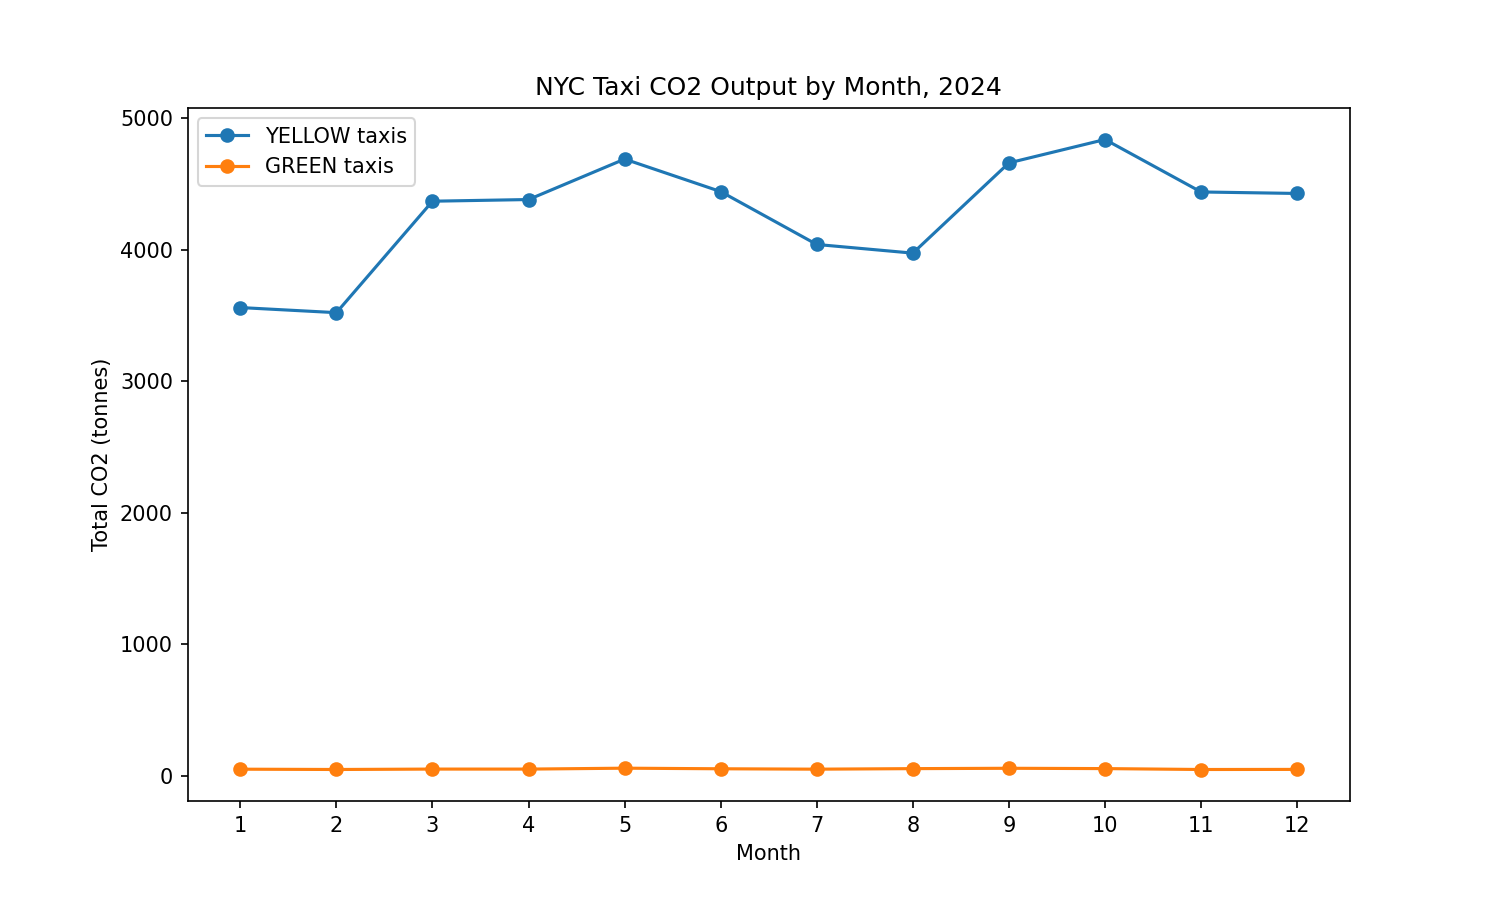
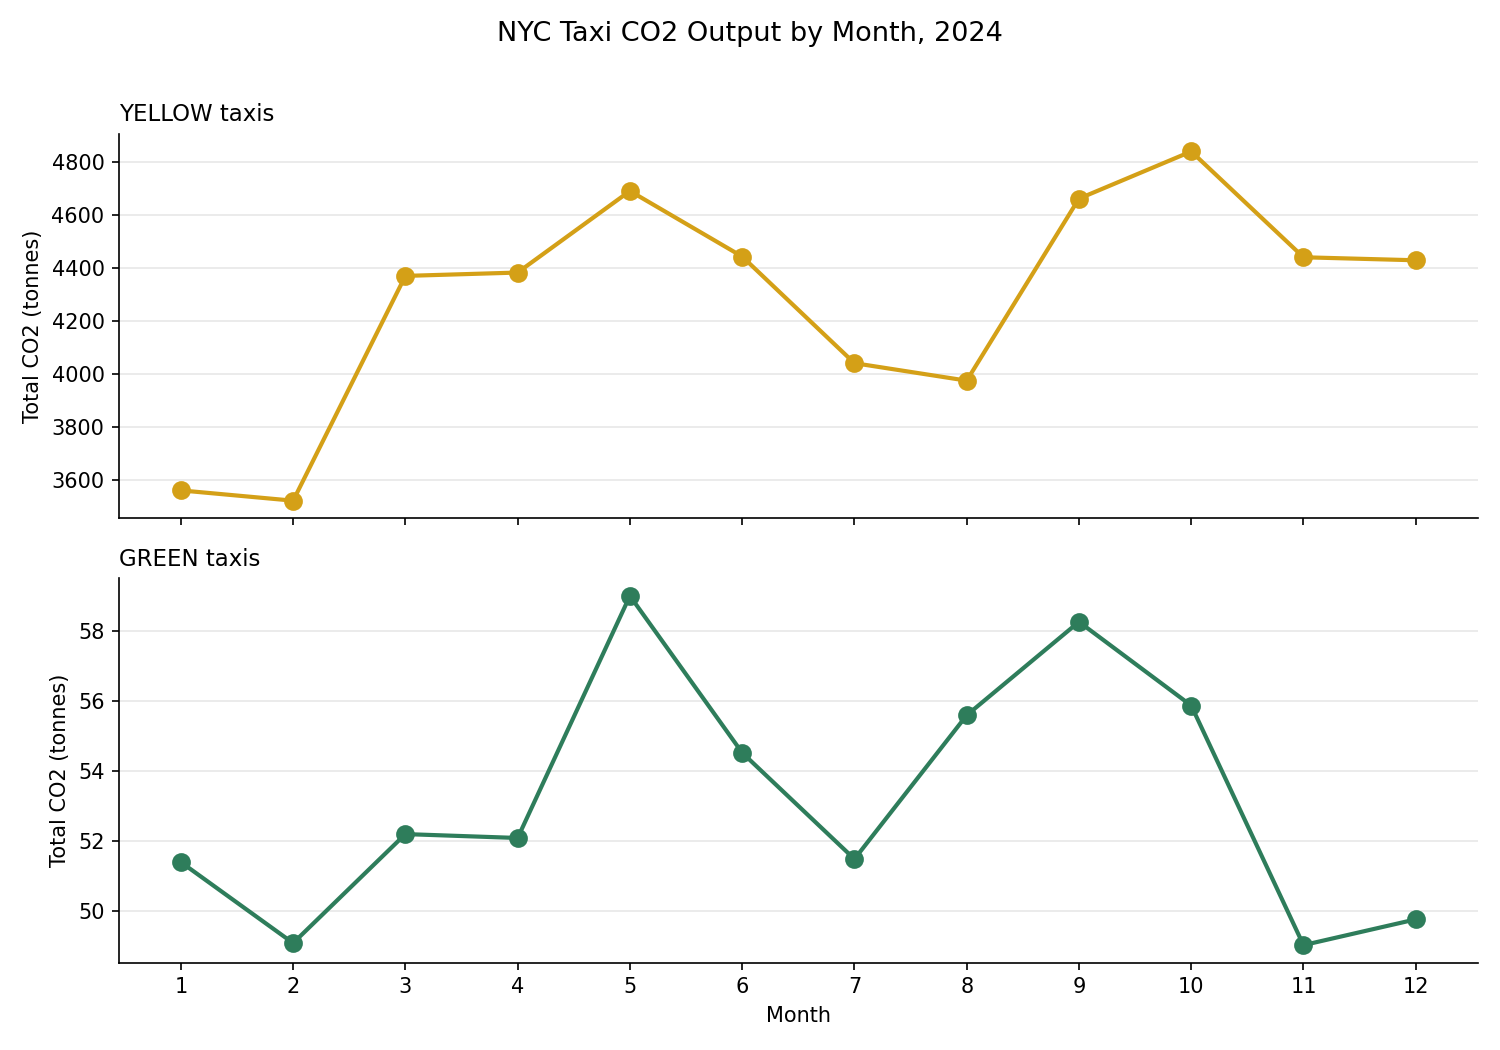
more updates

diff --git a/analysis.py b/analysis.py
@@ -63,22 +63,45 @@ def heaviest_lightest(con, label, table, column, description, names=None):
 def monthly_plot(con, filename="co2_by_month_2024.png"):
     """Plot monthly CO2 totals for both cab types and save it as a PNG.
 
-    Totals are divided by 1000 so the y-axis reads in tonnes rather than
+    Green output is only about 1.2% of yellow's, so the two series get their
+    own stacked panels rather than a shared axis, where green would flatten
+    against zero. Stacking them keeps each scale readable while sharing one
+    x-axis; a second y-axis on a single panel was avoided because the
+    distance between two differently-scaled lines carries no real meaning.
+
+    Totals are divided by 1000 so the axes read in tonnes rather than
     millions of kilograms.
     """
-    fig, ax = plt.subplots(figsize=(10, 6))
-    for label, table in TABLES.items():
+    colours = {"YELLOW": "#D4A017", "GREEN": "#2E7D5B"}
+
+    fig, axes = plt.subplots(
+        len(TABLES), 1, figsize=(10, 7), sharex=True
+    )
+
+    for ax, (label, table) in zip(axes, TABLES.items()):
         rows = con.execute(f"""
             SELECT month_of_year, SUM(trip_co2_kgs) AS total_co2
             FROM {table} GROUP BY month_of_year ORDER BY 1
         """).fetchall()
         months = [r[0] for r in rows]
         totals = [r[1] / 1000.0 for r in rows]   # kg -> tonnes
-        ax.plot(months, totals, marker="o", label=f"{label} taxis")
-    ax.set_xlabel("Month"); ax.set_ylabel("Total CO2 (tonnes)")
-    ax.set_title("NYC Taxi CO2 Output by Month, 2024")
-    ax.set_xticks(range(1, 13))
-    ax.legend(); fig.savefig(filename, dpi=150)
+
+        ax.plot(months, totals, marker="o", color=colours[label],
+                linewidth=2, markersize=8)
+        # One series per panel, so the panel title names it instead of a
+        # legend box, which otherwise sits on top of the data.
+        ax.set_title(f"{label} taxis", loc="left", fontsize=11)
+        ax.set_ylabel("Total CO2 (tonnes)")
+        ax.grid(axis="y", alpha=0.3)
+        ax.spines["top"].set_visible(False)
+        ax.spines["right"].set_visible(False)
+
+    fig.suptitle("NYC Taxi CO2 Output by Month, 2024", fontsize=13)
+    axes[-1].set_xlabel("Month")
+    axes[-1].set_xticks(range(1, 13))
+
+    fig.tight_layout(rect=(0, 0, 1, 0.97))
+    fig.savefig(filename, dpi=150)
     report(f"Plot written to {filename}")
 
 

diff --git a/README.md b/README.md
@@ -152,6 +152,17 @@ data: early-morning trips run long distances on empty roads, while rush-hour
 trips are short and slow. The largest trips for both colours land just under 100
 miles, exactly where the cleaning cutoff puts the ceiling.
 
+The plot below shows something different from the table above it. The table
+reports the **average** CO2 of a single trip, which is heaviest in August for
+both colours. The plot reports the **total** CO2 emitted across every trip in
+the month, which depends on how many trips ran as well as how large each one
+was. On that measure yellow peaks in October (4,839 t) against a February low
+of 3,522 t, while green peaks in May (59 t) against a November low of 49 t.
+
+Green emits roughly 1.2% of yellow's CO2 in every month, so the two series are
+drawn in stacked panels with their own y-axes. On a shared axis the green line
+flattens against zero and its seasonal shape disappears entirely.
+
 ![CO2 by month](co2_by_month_2024.png)
 
 ## Notes
